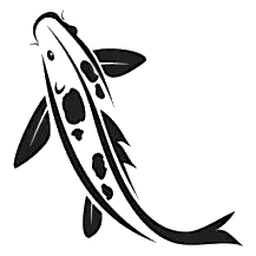
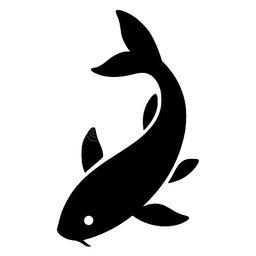
théâtre : nouvelle icône de la carpe

diff --git a/site/matchmaking/matchmaking.html b/site/matchmaking/matchmaking.html
@@ -88,10 +88,10 @@
     </div>
     <div class="modes-match" data-type="prive">
       <button type="button" class="mode-match" data-mode="auto">Auto<span>draft du plus petit palier</span></button>
-      <button type="button" class="mode-match" data-mode="sardine"><span class="titre-mode"><img class="medaille-theatre" src="/DB/images/others/theatre_sardine.webp?v=2" alt=""> Sardine</span><span>2 bans, 2 picks, 1 ban, 2 picks</span></button>
-      <button type="button" class="mode-match" data-mode="carpe"><span class="titre-mode"><img class="medaille-theatre" src="/DB/images/others/theatre_carpe.webp?v=2" alt=""> Carpe</span><span>2 bans, 2 picks, 2 bans, 2 picks</span></button>
-      <button type="button" class="mode-match" data-mode="dauphin"><span class="titre-mode"><img class="medaille-theatre" src="/DB/images/others/theatre_dauphin.webp?v=2" alt=""> Dauphin</span><span>3 bans, 2 picks, 2 bans, 2 picks</span></button>
-      <button type="button" class="mode-match" data-mode="baleine"><span class="titre-mode"><img class="medaille-theatre" src="/DB/images/others/theatre_baleine.webp?v=2" alt=""> Baleine</span><span>3 bans, 2 picks, 3 bans, 2 picks</span></button>
+      <button type="button" class="mode-match" data-mode="sardine"><span class="titre-mode"><img class="medaille-theatre" src="/DB/images/others/theatre_sardine.webp?v=3" alt=""> Sardine</span><span>2 bans, 2 picks, 1 ban, 2 picks</span></button>
+      <button type="button" class="mode-match" data-mode="carpe"><span class="titre-mode"><img class="medaille-theatre" src="/DB/images/others/theatre_carpe.webp?v=3" alt=""> Carpe</span><span>2 bans, 2 picks, 2 bans, 2 picks</span></button>
+      <button type="button" class="mode-match" data-mode="dauphin"><span class="titre-mode"><img class="medaille-theatre" src="/DB/images/others/theatre_dauphin.webp?v=3" alt=""> Dauphin</span><span>3 bans, 2 picks, 2 bans, 2 picks</span></button>
+      <button type="button" class="mode-match" data-mode="baleine"><span class="titre-mode"><img class="medaille-theatre" src="/DB/images/others/theatre_baleine.webp?v=3" alt=""> Baleine</span><span>3 bans, 2 picks, 3 bans, 2 picks</span></button>
       <button type="button" class="mode-match" data-mode="carnage"><span class="titre-mode">Carnage <img class="icone-carnage" src="/DB/images/others/carnage.webp" alt=""></span><span>carpe, sans bans d'équilibrage</span></button>
     </div>
   </section>
@@ -161,10 +161,10 @@
       <label class="case-entrainement"><input type="checkbox" id="ent-classe"> Draft classée (chronos : analyse 2 min, bans d'équilibrage 10 s par ban (30 s minimum, 3 min maximum par phase), 30 s par pick / ban de chaque joueur)</label>
       <div class="choix-boutons" id="ent-mode">
         <button type="button" class="choix-btn active" data-valeur="auto">Classique<span>draft du plus petit palier</span></button>
-        <button type="button" class="choix-btn" data-valeur="sardine"><span class="titre-mode"><img class="medaille-theatre" src="/DB/images/others/theatre_sardine.webp?v=2" alt=""> Sardine</span><span>3 bans</span></button>
-        <button type="button" class="choix-btn" data-valeur="carpe"><span class="titre-mode"><img class="medaille-theatre" src="/DB/images/others/theatre_carpe.webp?v=2" alt=""> Carpe</span><span>4 bans (mêlée générale)</span></button>
-        <button type="button" class="choix-btn" data-valeur="dauphin"><span class="titre-mode"><img class="medaille-theatre" src="/DB/images/others/theatre_dauphin.webp?v=2" alt=""> Dauphin</span><span>5 bans</span></button>
-        <button type="button" class="choix-btn" data-valeur="baleine"><span class="titre-mode"><img class="medaille-theatre" src="/DB/images/others/theatre_baleine.webp?v=2" alt=""> Baleine</span><span>6 bans</span></button>
+        <button type="button" class="choix-btn" data-valeur="sardine"><span class="titre-mode"><img class="medaille-theatre" src="/DB/images/others/theatre_sardine.webp?v=3" alt=""> Sardine</span><span>3 bans</span></button>
+        <button type="button" class="choix-btn" data-valeur="carpe"><span class="titre-mode"><img class="medaille-theatre" src="/DB/images/others/theatre_carpe.webp?v=3" alt=""> Carpe</span><span>4 bans (mêlée générale)</span></button>
+        <button type="button" class="choix-btn" data-valeur="dauphin"><span class="titre-mode"><img class="medaille-theatre" src="/DB/images/others/theatre_dauphin.webp?v=3" alt=""> Dauphin</span><span>5 bans</span></button>
+        <button type="button" class="choix-btn" data-valeur="baleine"><span class="titre-mode"><img class="medaille-theatre" src="/DB/images/others/theatre_baleine.webp?v=3" alt=""> Baleine</span><span>6 bans</span></button>
         <button type="button" class="choix-btn" data-valeur="carnage"><span class="titre-mode">Carnage <img class="icone-carnage" src="/DB/images/others/carnage.webp" alt=""></span><span>carpe, sans bans d'équilibrage</span></button>
       </div>
     </div>
@@ -198,7 +198,7 @@
 
   <script src="/commun/variantes.js?v=4"></script>
   <script src="/commun/synergies.js?v=1"></script>
-  <script src="/commun/cartes.js?v=28"></script>
+  <script src="/commun/cartes.js?v=29"></script>
   <script src="matchmaking.js?v=26"></script>
 </body>
 </html>

diff --git a/site/my_account/my_account.html b/site/my_account/my_account.html
@@ -255,7 +255,7 @@
   <script src="/my_account/auto_box/detection.js?v=2"></script>
   <script src="/my_account/auto_box/interface.js?v=4"></script>
   <script src="/commun/synergies.js?v=1"></script>
-  <script src="/commun/cartes.js?v=28"></script>
+  <script src="/commun/cartes.js?v=29"></script>
   <script src="/commun/tri.js?v=19"></script>
   <script src="/commun/personnalisation.js?v=20"></script>
   <script src="/commun/recommandations_stuff.js?v=1"></script>

diff --git a/site/commun/cartes.js b/site/commun/cartes.js
@@ -291,7 +291,7 @@ const ICONES_PALIERS_THEATRE = { 6: "sardine", 8: "carpe", 10: "dauphin", 12: "b
 
 function urlMedailleTheatre(numero) {
   // ?v= : à augmenter quand une icône change (images en cache 1 jour).
-  return `/DB/images/others/theatre_${ICONES_PALIERS_THEATRE[numero]}.webp?v=2`;
+  return `/DB/images/others/theatre_${ICONES_PALIERS_THEATRE[numero]}.webp?v=3`;
 }
 
 // Théâtre joué d'un match ou d'une draft : palier actuel (1..4) ou ancien

diff --git a/site/matchmaking/match.html b/site/matchmaking/match.html
@@ -268,7 +268,7 @@
 
   <script src="/commun/variantes.js?v=4"></script>
   <script src="/commun/synergies.js?v=1"></script>
-  <script src="/commun/cartes.js?v=28"></script>
+  <script src="/commun/cartes.js?v=29"></script>
   <script src="/commun/tri.js?v=19"></script>
   <script src="/commun/filtres_draft.js?v=3"></script>
   <script src="/commun/recommandations_boss.js?v=1"></script>

diff --git a/site/admin_ppc/admin_ppc.html b/site/admin_ppc/admin_ppc.html
@@ -405,7 +405,7 @@
 
   <script src="/commun/variantes.js?v=4"></script>
   <script src="/commun/synergies.js?v=1"></script>
-  <script src="/commun/cartes.js?v=28"></script>
+  <script src="/commun/cartes.js?v=29"></script>
   <script src="/commun/tri.js?v=19"></script>
   <script src="admin_ajout.js?v=7"></script>
   <script src="/commun/recommandations_boss.js?v=1"></script>

diff --git a/site/matchmaking/equipe.html b/site/matchmaking/equipe.html
@@ -140,7 +140,7 @@
 
 <script src="/commun/variantes.js?v=4"></script>
 <script src="/commun/synergies.js?v=1"></script>
-<script src="/commun/cartes.js?v=28"></script>
+<script src="/commun/cartes.js?v=29"></script>
 <script src="/commun/tri.js?v=19"></script>
 <script src="/commun/recommandations_boss.js?v=1"></script>
 <script src="/commun/koyns.js?v=9"></script>

diff --git a/site/matchmaking/world_boss.html b/site/matchmaking/world_boss.html
@@ -100,7 +100,7 @@
 
 <script src="/commun/variantes.js?v=4"></script>
 <script src="/commun/synergies.js?v=1"></script>
-<script src="/commun/cartes.js?v=28"></script>
+<script src="/commun/cartes.js?v=29"></script>
 <script src="/commun/tri.js?v=19"></script>
 <script src="/commun/recommandations_boss.js?v=1"></script>
 <script src="/commun/koyns.js?v=9"></script>

diff --git a/site/all_accounts/all_accounts.html b/site/all_accounts/all_accounts.html
@@ -106,7 +106,7 @@
 
   <script src="/commun/variantes.js?v=4"></script>
   <script src="/commun/synergies.js?v=1"></script>
-  <script src="/commun/cartes.js?v=28"></script>
+  <script src="/commun/cartes.js?v=29"></script>
   <script src="/commun/tri.js?v=19"></script>
   <script src="all_accounts.js?v=31"></script>
 </body>

diff --git a/site/historique/historique.html b/site/historique/historique.html
@@ -246,7 +246,7 @@
 
   <script src="/commun/variantes.js?v=4"></script>
   <script src="/commun/synergies.js?v=1"></script>
-  <script src="/commun/cartes.js?v=28"></script>
+  <script src="/commun/cartes.js?v=29"></script>
   <script src="/commun/tri.js?v=19"></script>
   <script src="historique.js?v=56"></script>
 </body>

diff --git a/site/theorycraft/theorycraft.html b/site/theorycraft/theorycraft.html
@@ -72,7 +72,7 @@
 
   <script src="/commun/variantes.js?v=4"></script>
   <script src="/commun/synergies.js?v=1"></script>
-  <script src="/commun/cartes.js?v=28"></script>
+  <script src="/commun/cartes.js?v=29"></script>
   <script src="/commun/tri.js?v=19"></script>
   <script src="theorycraft.js?v=22"></script>
 </body>

diff --git a/site/evenements.html b/site/evenements.html
@@ -54,7 +54,7 @@
 
   <script src="/commun/variantes.js?v=4"></script>
   <script src="/commun/synergies.js?v=1"></script>
-  <script src="/commun/cartes.js?v=28"></script>
+  <script src="/commun/cartes.js?v=29"></script>
   <script src="evenements/evenements.js?v=2"></script>
 </body>
 </html>

diff --git a/site/leaderboard.html b/site/leaderboard.html
@@ -63,7 +63,7 @@
   </div>
 
   <script src="/commun/synergies.js?v=1"></script>
-  <script src="/commun/cartes.js?v=28"></script>
+  <script src="/commun/cartes.js?v=29"></script>
   <script src="classement/classement.js?v=8"></script>
 </body>
 </html>
